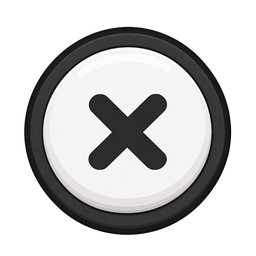
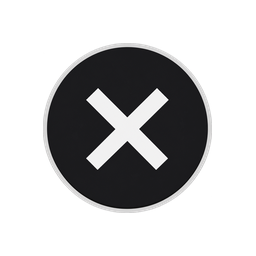
操作説明の絵30枚を、暗いキーに明るい灰色の縁と白い文字の新しい絵柄に作り直す

diff --git a/tools/make_glyph_swap_icons.py b/tools/make_glyph_swap_icons.py
@@ -1,0 +1,123 @@
+# 操作説明のアイコンのうち、中の文字・記号の形がずれている4枚を、形のそろった見本の本体に文字だけ載せ替えて作り直す。
+# 入力: assets/ui/controls/ の trigger_lt.png・stick_left.png・button_b.png（見本の本体）と、
+#       文字の取り出し元4枚（trigger_rt・stick_right・button_x・button_triangle）。
+#       取り出し元は最初に scratchpad の menu/glyph_src/ へ（無ければ）コピーし、以後はそこから読む。
+# 出力: assets/ui/controls/ の trigger_rt.png・stick_right.png・button_x.png・button_triangle.png（256x256 RGBA、上書き）
+# 実行: uv run --with pillow --with numpy python tools/make_glyph_swap_icons.py
+# 見本の本体の内側（暗い画素の連結成分を穴埋めした領域）の文字を消し、取り出し元の文字（アルファ付き）を
+# 見本の文字と同じ高さ・同じ中心に合わせて (242,242,242) で重ねる。
+import shutil
+from pathlib import Path
+
+import numpy as np
+from PIL import Image, ImageDraw, ImageFilter
+
+ROOT = Path(__file__).resolve().parent.parent
+CTRL = ROOT / "assets/ui/controls"
+SRC_DIR = Path(r"C:\Users\yadok\AppData\Local\Temp\claude\D--document-Program-Godot-ugokuita-adventure-uec"
+               r"\c2d67861-ca1a-483d-8a82-b994a97449b8\scratchpad\menu\glyph_src")
+DARK_LEVEL = 90  # これ未満を本体の暗い画素とみなす
+WHITE_LEVEL = 150  # これより明るいものを文字とみなす
+MIN_BODY = 2000  # 本体とみなす連結成分の最小画素数
+WHITE = 242
+ERASE_MARGIN = 5  # 文字を消すときの広げ幅（MaxFilter のサイズ。周り2px）
+
+# (出力名, 見本, 取り出し元)
+JOBS = [
+    ("trigger_rt", "trigger_lt", "trigger_rt"),
+    ("stick_right", "stick_left", "stick_right"),
+    ("button_x", "button_b", "button_x"),
+    ("button_triangle", "button_b", "button_triangle"),
+]
+
+
+def load(path: Path) -> np.ndarray:
+    return np.asarray(Image.open(path).convert("RGBA")).copy()
+
+
+def inner_region(rgba: np.ndarray) -> np.ndarray:
+    """最大の暗い連結成分を穴埋めした、本体の内側のマスク。"""
+    lum = rgba[..., :3].max(axis=2)
+    dark = (rgba[..., 3] > 200) & (lum < DARK_LEVEL)
+    ys, xs = np.nonzero(dark)
+    # 文字の穴（△の内側など）に引っかからないよう、最大の連結成分を本体とする
+    remaining = dark.copy()
+    best = None
+    for y, x in zip(ys, xs):
+        if not remaining[y, x]:
+            continue
+        img = Image.fromarray((remaining * 255).astype(np.uint8)).copy()
+        ImageDraw.floodfill(img, (int(x), int(y)), 128)
+        comp = np.asarray(img) == 128
+        remaining &= ~comp
+        if best is None or comp.sum() > best.sum():
+            best = comp
+    if best is None or best.sum() < MIN_BODY:
+        raise RuntimeError("本体が見つからない")
+    # 穴埋め: 外側（角）から塗れない部分を内側とする
+    inv = Image.fromarray((~best * 255).astype(np.uint8)).copy()
+    ImageDraw.floodfill(inv, (0, 0), 128)
+    return np.asarray(inv) != 128
+
+
+def bbox(mask: np.ndarray):
+    ys, xs = np.nonzero(mask)
+    return xs.min(), ys.min(), xs.max() + 1, ys.max() + 1
+
+
+def main() -> None:
+    SRC_DIR.mkdir(parents=True, exist_ok=True)
+    for _, _, g in JOBS:
+        dst = SRC_DIR / f"{g}.png"
+        if not dst.exists():
+            shutil.copy2(CTRL / f"{g}.png", dst)
+
+    for out_name, tmpl_name, glyph_name in JOBS:
+        # 見本
+        t = load(CTRL / f"{tmpl_name}.png")
+        t_in = inner_region(t)
+        t_lum = t[..., :3].max(axis=2)
+        t_dark = np.median(t[t_in & (t_lum < DARK_LEVEL)][:, :3], axis=0)
+        t_white = t_in & (t_lum > WHITE_LEVEL)
+        x0, y0, x1, y1 = bbox(t_white)
+        t_h = y1 - y0
+        cx, cy = (x0 + x1) / 2, (y0 + y1) / 2
+        erase = np.asarray(Image.fromarray((t_white * 255).astype(np.uint8))
+                           .filter(ImageFilter.MaxFilter(ERASE_MARGIN))) > 0
+        t[erase & t_in, :3] = np.round(t_dark).astype(np.uint8)
+
+        # 取り出し元の文字
+        s = load(SRC_DIR / f"{glyph_name}.png")
+        s_in = inner_region(s)
+        s_lum = s[..., :3].max(axis=2).astype(np.float64)
+        s_dark = float(np.median(s[s_in & (s_lum < DARK_LEVEL)][:, :3].max(axis=1)))
+        alpha = np.clip((s_lum - s_dark) / (WHITE - s_dark), 0, 1)
+        # 白っぽい画素とその周り1px（アンチエイリアス分）だけを文字とし、暗いノイズは捨てる
+        core = s_in & (s_lum > WHITE_LEVEL)
+        keep = np.asarray(Image.fromarray((core * 255).astype(np.uint8))
+                          .filter(ImageFilter.MaxFilter(3))) > 0
+        alpha[~(keep & s_in)] = 0
+        gx0, gy0, gx1, gy1 = bbox(alpha > 0)
+        g_h = gy1 - gy0
+        mask = Image.fromarray((alpha[gy0:gy1, gx0:gx1] * 255).astype(np.uint8))
+        scale = t_h / g_h
+        new_w = max(1, round(mask.width * scale))
+        mask = mask.resize((new_w, t_h), Image.LANCZOS)
+
+        # 置く
+        px = round(cx - new_w / 2)
+        py = round(cy - t_h / 2)
+        layer = Image.new("RGBA", (256, 256), (WHITE, WHITE, WHITE, 0))
+        layer.paste(Image.merge("RGBA", [Image.new("L", mask.size, WHITE)] * 3 + [mask]), (px, py))
+        base = Image.fromarray(t, "RGBA")
+        result = Image.alpha_composite(base, layer)
+        out = np.asarray(result)
+        corners = [out[0, 0, 3], out[0, -1, 3], out[-1, 0, 3], out[-1, -1, 3]]
+        assert all(c == 0 for c in corners), corners
+        result.save(CTRL / f"{out_name}.png")
+        print(f"{out_name}: size={result.size} corner_alpha={corners} "
+              f"template_h={t_h} source_h={g_h}")
+
+
+if __name__ == "__main__":
+    main()
